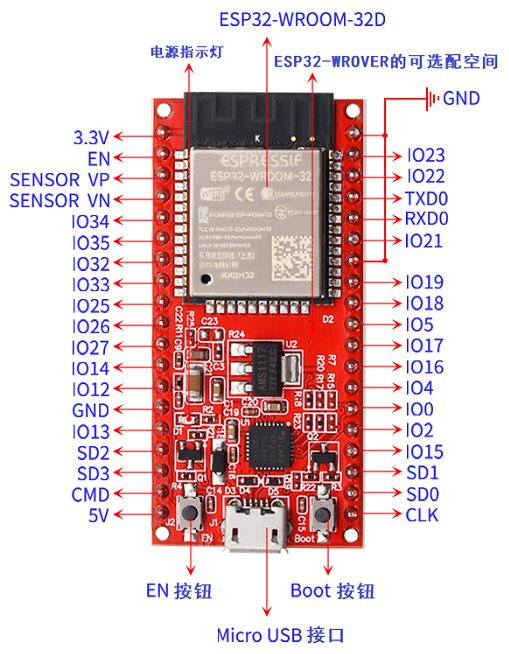
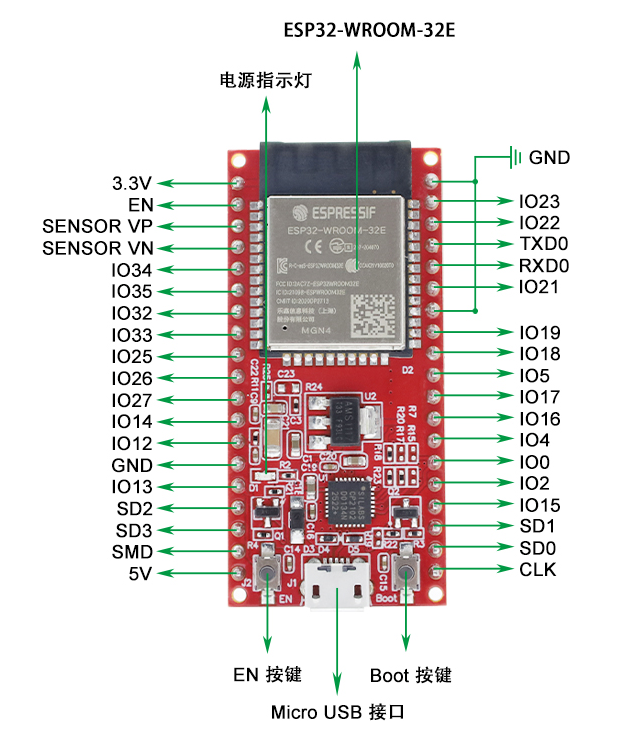
UPDATE V02

diff --git a/docs/主板介绍/4.常见问题解答.md b/docs/主板介绍/4.常见问题解答.md
@@ -1,80 +1,4 @@
-# 主板介绍
-
-![](./media/074ca02db99706884ece5ca5c9adece4.png)
-
-**1、说明：**
-
-keyes ESP32 主控板是基于ESP-WROOM-32模块所设计的的迷你开发板。该开发板引出大部分I/O至两侧的2.54mm间距的排针，开发者可以根据自己的需求连接外设。使用开发板进行开发和调试时，两侧的标准排针可以让你的操作更加简洁方便。
-
-ESP-WROOM-32模块是业内集成度领先的 WiFi + 蓝牙解决方案，外部元器件少于 10 个，它集成了天线开关、射频 balun、功率放大器、低噪放大器、过滤器和电源管理模块。同时，它也集成了天采用 TSMC 低功耗 40nm 技术，功耗性能和射频性能，安全可靠，易于扩展至各种应用。
-
-**2、规格参数：**
-
-- 微控制器: ESP-WROOM-32模块
-- USB转串口芯片: CP2102-GMR
-- 工作电压:	DC 5V
-- 工作电流：80mA（平均）
-- 供电电流：500mA（最小）
-- 工作温度范围: -40°C ~ +85°C 
-- WiFi模式：Station/SoftAP/SoftAP+Station/P2P
-- WiFi协议：802.11 b/g/n/e/i（802.11n，速度高达 150 Mbps
-- WiFi频率范围：2.4 GHz ~ 2.5 GHz
-- 蓝牙协议：符合蓝牙 v4.2 BR/EDR 和 BLE 标准
-- 尺寸：55mm x 26mm x 13mm
-- 重量：9.8g
-
-**3、各个接口和主要元件说明：**
-
-![](./media/ec36a4b63483949c59cd8a3a30ee0cdd.png)
-
-**4、各个接口详细说明：**
-
-- IO23: VSPI MOSI/SPI MOSI
-- IO22: Wire SCL
-- TXD0: IO1/Serial TX
-- RXD0: IO3/Serial RX
-- IO21: Wire SDA
-- IO19: VSPI MISO/SPI MISO
-- IO18: VSPI SCK/SPI SCK
-- IO5: VSPI SS/SPI SS
-- IO4: ADC10/TOUCH0
-- IO0: ADC11/TOUCH1
-- IO2: ADC12/TOUCH2
-- IO15: HSPI SS/ADC13/TOUCH3/TDO
-- SD1: IO8/FLASH D1
-- SD0: IO7/FLASH D0
-- CLK: IO6/FLASH SCK
-- CMD: IO11/FLASH CMD
-- SD3: IO10/FLASH D3
-- SD2: IO9/FLASH D2
-- IO13: HSPI MOSI/ADC14/TOUCH4/TCK
-- IO12: HSPI MISO/ADC15/TOUCH5/TDI
-- IO14: HSPI SCK/ADC16/TOUCH6/TMS
-- IO27: ADC17/TOUCH7
-- IO26: ADC19/DAC2
-- IO25: ADC18/DAC1
-- IO33: ADC5/TOUCH8
-- IO32: ADC4/TOUCH9
-- IO35: ADC7
-- IO34: ADC6
-- SENSOR VN: IO39/ADC3
-- SENSOR VP: IO36/ADC0
-- EN 按钮: 复位键
-
-
-# 资料下载
-
-本套件的所有项目代码、库文件和其他重要资料等资料的下载链接：
-
-- [程序代码](程序代码.zip)
-
-- [库文件](库文件.zip)
-
-- [其他重要资料](其他重要资料.zip)
-
-
-
-# 常见问题解答
+# 4. 常见问题解答
 
 1\. 问：esp32 主板烧录程序出错。
 

diff --git a/docs/主板介绍/2.主板介绍.md b/docs/主板介绍/2.主板介绍.md
@@ -1,0 +1,65 @@
+# 2. 主板介绍
+
+![](./media/074ca02db99706884ece5ca5c9adece4.png)
+
+**1、说明：**
+
+keyes ESP32 主控板是基于ESP-WROOM-32E模块所设计的的迷你开发板。该开发板引出大部分I/O至两侧的2.54mm间距的排针，开发者可以根据自己的需求连接外设。使用开发板进行开发和调试时，两侧的标准排针可以让你的操作更加简洁方便。
+
+ESP-WROOM-32E模块是业内集成度领先的 WiFi + 蓝牙解决方案，外部元器件少于 10 个，它集成了天线开关、射频 balun、功率放大器、低噪放大器、过滤器和电源管理模块。同时，它也集成了天采用 TSMC 低功耗 40nm 技术，功耗性能和射频性能，安全可靠，易于扩展至各种应用。
+
+**2、规格参数：**
+
+- 微控制器: ESP-WROOM-32E模块
+- USB转串口芯片: CP2102-GMR
+- 工作电压:	DC 5V
+- 工作电流：80mA（平均）
+- 供电电流：500mA（最小）
+- 工作温度范围: -40°C ~ +85°C 
+- WiFi模式：Station/SoftAP/SoftAP+Station/P2P
+- WiFi协议：802.11 b/g/n/e/i（802.11n，速度高达 150 Mbps
+- WiFi频率范围：2.4 GHz ~ 2.5 GHz
+- 蓝牙协议：符合蓝牙 v4.2 BR/EDR 和 BLE 标准
+- 尺寸：55mm x 26mm x 13mm
+- 重量：9.8g
+
+**3、各个接口和主要元件说明：**
+
+![](./media/ec36a4b63483949c59cd8a3a30ee0cdd.png)
+
+**4、各个接口详细说明：**
+
+- IO23: VSPI MOSI/SPI MOSI
+- IO22: Wire SCL
+- TXD0: IO1/Serial TX
+- RXD0: IO3/Serial RX
+- IO21: Wire SDA
+- IO19: VSPI MISO/SPI MISO
+- IO18: VSPI SCK/SPI SCK
+- IO5: VSPI SS/SPI SS
+- IO4: ADC10/TOUCH0
+- IO0: ADC11/TOUCH1
+- IO2: ADC12/TOUCH2
+- IO15: HSPI SS/ADC13/TOUCH3/TDO
+- SD1: IO8/FLASH D1
+- SD0: IO7/FLASH D0
+- CLK: IO6/FLASH SCK
+- CMD: IO11/FLASH CMD
+- SD3: IO10/FLASH D3
+- SD2: IO9/FLASH D2
+- IO13: HSPI MOSI/ADC14/TOUCH4/TCK
+- IO12: HSPI MISO/ADC15/TOUCH5/TDI
+- IO14: HSPI SCK/ADC16/TOUCH6/TMS
+- IO27: ADC17/TOUCH7
+- IO26: ADC19/DAC2
+- IO25: ADC18/DAC1
+- IO33: ADC5/TOUCH8
+- IO32: ADC4/TOUCH9
+- IO35: ADC7
+- IO34: ADC6
+- SENSOR VN: IO39/ADC3
+- SENSOR VP: IO36/ADC0
+- EN 按钮: 复位键
+
+
+

diff --git a/index.rst b/index.rst
@@ -4,12 +4,14 @@
    :caption: KE3069 Keyes ESP32 初级版学习套件
 
    README.md
-   docs/产品介绍/产品介绍.md
-   docs/主板介绍/主板介绍.md
-   docs/Arduino C 教程 Windows 系统.md
-   docs/Arduino C 教程 树莓派 系统.md
-   docs/Mixly 教程.md
-   docs/Python 教程.md
+   docs/产品介绍/1.产品介绍
+   docs/主板介绍/2.主板介绍
+   docs/主板介绍/3.资料下载
+   docs/主板介绍/4.常见问题解答
+   docs/5.Arduino C 教程 Windows 系统
+   docs/6.Arduino C 教程 树莓派 系统
+   docs/7.Mixly 教程
+   docs/8.Python 教程
 
 
 

diff --git a/docs/主板介绍/3.资料下载.md b/docs/主板介绍/3.资料下载.md
@@ -1,0 +1,11 @@
+# 3. 资料下载
+
+本套件的所有项目代码、库文件和其他重要资料等资料的下载链接：
+
+- [程序代码](程序代码.zip)
+
+- [库文件](库文件.zip)
+
+- [其他重要资料](其他重要资料.zip)
+
+

diff --git a/docs/6.Arduino C 教程 树莓派 系统.md b/docs/6.Arduino C 教程 树莓派 系统.md
@@ -1,4 +1,4 @@
-# Arduino C 教程 树莓派 系统
+# 6. Arduino C 教程 树莓派 系统
 
 ## 开发环境设置
 

diff --git a/docs/5.Arduino C 教程 Windows 系统.md b/docs/5.Arduino C 教程 Windows 系统.md
@@ -1,4 +1,4 @@
-# Arduino C 教程 Windows 系统
+# 5. Arduino C 教程 Windows 系统
  
 ## 开发环境设置
 

diff --git a/docs/产品介绍/1.产品介绍.md b/docs/产品介绍/1.产品介绍.md
@@ -1,4 +1,4 @@
-# 产品介绍
+# 1. 产品介绍
 
 首先感谢选择keyes产品,
 

diff --git a/docs/8.Python 教程.md b/docs/8.Python 教程.md
@@ -1,4 +1,4 @@
-# Python 教程
+# 8. Python 教程
 
 **开发环境设置**
 

diff --git a/docs/7.Mixly 教程.md b/docs/7.Mixly 教程.md
@@ -1,4 +1,4 @@
-# Mixly 教程
+# 7. Mixly 教程
 
 ## 开发环境设置
 
